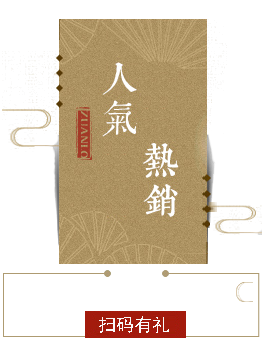
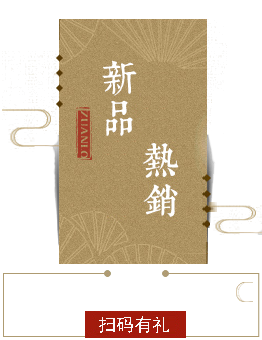
修改首页，增加新图

Changed region(s): [[0.3969, 0.1765, 0.5191, 0.4118]]

diff --git a/css/index.css b/css/index.css
@@ -1,0 +1,123 @@
+  /* 轮播图 */
+    #carousel{
+      margin: 0 auto;
+      overflow: hidden;
+      position: relative;
+    }
+    #carousel>.box{
+      left: 15%;
+      width: 70%;
+      overflow: hidden;
+      position: relative;
+    }
+    #carousel ul{
+      left: 0;
+      width: 500%;
+      position: relative;
+    }
+    #carousel ul li{
+      width: 20%;
+      float: left;
+      text-align: center;
+    }
+    #carousel ul li img{
+      width: 100%;
+    }
+
+  /* 底部按钮 */
+    #btn{
+      left: 50%;
+      bottom: 50px;
+      width: 200px;
+      height: 20px;
+      position: absolute;
+      margin-left: -100px;
+    }
+    #btn span{
+      width: 20px;
+      height: 20px;
+      cursor: pointer;
+      margin-left: 20px;
+      border-radius: 50%;
+      background: #2b2b2b;
+      display: inline-block;
+    }
+    #btn .slide{
+      background-color: #f96;
+    }
+
+  /* 轮播按钮 */
+    .mid{
+      top: 50%;
+      position: absolute;
+    }
+    .mid span{
+      width: 40px;
+      height: 40px;
+      font-size: 40px;
+      cursor: pointer;
+      line-height: 35px;
+      position: absolute;
+      text-align: center;
+      border-radius: 20px;
+    }
+    .mid img{
+      width: 40px;
+      height: 40px;
+    }
+    .mid .sLeft{
+      left: 15%;
+    }
+    .mid .sRight{
+      right: 15%;
+    }
+
+  /* 侧边广告 */
+    .adverti{
+      top: -2px;
+      width: 13%;
+      position: absolute;
+      text-align: center;
+    }
+    .adverti img{
+      width: 100%;
+    }
+    .adverti .Shaft{
+      width: 80%;
+      top: -570px;
+      position: relative;
+    }
+    .adverti .bottomShaft{
+      top: -570px;
+      position: relative;
+    }
+    .adverti img:not(.Shaft){
+      z-index: 1;
+      position: relative;
+    }
+    .adverti-01{
+      left: 1%;
+    }
+    .adverti-02{
+      right: 1%;
+    }
+
+  /* 新品 */
+    .new-prant{
+      text-align: center;
+      margin-top: 50px;
+    }
+    .new-prant h2{
+      font-size: 30px;
+      font-weight: 700;
+      margin: 50px auto;
+    }
+    .new-prant .new-season img{
+      width: 16%;
+      margin: 10px;
+    }
+    .new-prant .new-flower img{
+      max-width: 20%;
+      width: 218px;
+      margin: 10px;
+    }

diff --git a/index.html b/index.html
@@ -6,9 +6,10 @@
   <link rel="icon" href="images/bg/fanicon.ico">
   <link rel="stylesheet" href="css/base.css">
   <link rel="stylesheet" href="css/style.css">
+  <link rel="stylesheet" href="css/Ystyle.css">
   <link rel="stylesheet" href="css/Zstyle.css">
   <link rel="stylesheet" href="css/ZZindex.css">
-    <link rel="stylesheet" href="css/Ystyle.css">
+  <link rel="stylesheet" href="css/index.css">
 </head>
 <body>
   <!-- 头部 -->
@@ -147,9 +148,30 @@
         <img src="images/bg/zhou.png" alt="" class="bottomShaft">
       </div>
     </div>
+    <!-- 新品 -->
+    <div class="new-prant">
+      <img src="images/bg/hengTU03.png"/>
+      <div class="new-season">
+        <h2>四季</h2>
+        <a href="square.html">
+          <img src="images/square/301.jpg" alt="">
+          <img src="images/square/302.jpg" alt="">
+          <img src="images/square/303.jpg" alt="">
+          <img src="images/square/304.jpg" alt="">
+        </a>
+      </div>
+      <div class="new-flower">
+        <h2>富贵吉祥-繁花</h2>
+        <a href="#">
+          <img src="images/vertical/5-1.jpg" alt="">
+          <img src="images/vertical/5-2.jpg" alt="">
+          <img src="images/vertical/5-3.jpg" alt="">
+          <img src="images/vertical/5-4.jpg" alt="">
+        </a>
+      </div>
+    </div>
 
-
-
+    <!-- 热销 -->
     <div class="ch-header">
       <img src="images/bg/hengTU01.png"/>
     </div>
